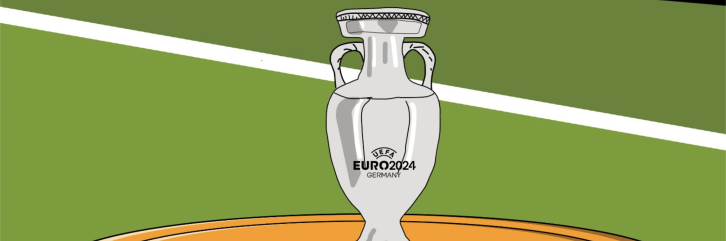
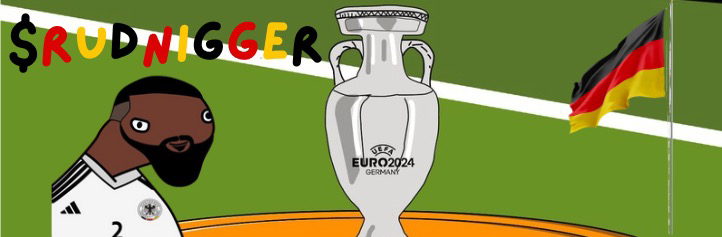
Update stats display layout and header styling

diff --git a/public/index.html b/public/index.html
@@ -1,46 +1,20 @@
 <!DOCTYPE html>
 <html lang="en">
-  <head><head>
-  
+  <head>
     <link href="https://fonts.googleapis.com/css2?family=Fredoka+One&display=swap" rel="stylesheet">
-   
+
     <meta charset="utf-8" />
-    <link rel="icon" href="%PUBLIC_URL%/favicon.ico" />
+    <link rel="icon" href="%PUBLIC_URL%/4.webp" />
     <meta name="viewport" content="width=device-width, initial-scale=1" />
     <meta name="theme-color" content="#000000" />
-    <meta
-      name="description"
-      content="Web site created using create-react-app"
-    />
+    <meta name="description" content="Web site created using create-react-app" />
     <link rel="apple-touch-icon" href="%PUBLIC_URL%/logo192.png" />
-    <!--
-      manifest.json provides metadata used when your web app is installed on a
-      user's mobile device or desktop. See https://developers.google.com/web/fundamentals/web-app-manifest/
-    -->
     <link rel="manifest" href="%PUBLIC_URL%/manifest.json" />
-    <!--
-      Notice the use of %PUBLIC_URL% in the tags above.
-      It will be replaced with the URL of the `public` folder during the build.
-      Only files inside the `public` folder can be referenced from the HTML.
-
-      Unlike "/favicon.ico" or "favicon.ico", "%PUBLIC_URL%/favicon.ico" will
-      work correctly both with client-side routing and a non-root public URL.
-      Learn how to configure a non-root public URL by running `npm run build`.
-    -->
-    <title>React App</title>
+    
+    <title>RUDNIGGER</title>
   </head>
   <body>
     <noscript>You need to enable JavaScript to run this app.</noscript>
     <div id="root"></div>
-    <!--
-      This HTML file is a template.
-      If you open it directly in the browser, you will see an empty page.
-
-      You can add webfonts, meta tags, or analytics to this file.
-      The build step will place the bundled scripts into the <body> tag.
-
-      To begin the development, run `npm start` or `yarn start`.
-      To create a production bundle, use `npm run build` or `yarn build`.
-    -->
   </body>
 </html>

diff --git a/src/components/CommunityLinks.js b/src/components/CommunityLinks.js
@@ -10,7 +10,7 @@ function CommunityLinks() {
 
     return (
         <div className="community bg-black text-white p-4 sm:p-8 md:p-12 text-center flex flex-col items-center justify-center space-y-4 sm:space-y-6">
-            <h2 className="text-2xl sm:text-3xl md:text-4xl font-bold mb-4 sm:mb-6 md:mb-8">Join Our Community</h2>
+            <h2 className="text-2xl sm:text-3xl md:text-4xl font-bold mb-4 sm:mb-6 md:mb-8">$RUDNIGGER CA:</h2>
 
             <div className="address-box bg-gray-800 p-4 sm:p-6 md:p-6 rounded mb-4 sm:mb-6 md:mb-8 flex items-center space-x-2 sm:space-x-4">
                 <span className="text-lg sm:text-xl md:text-xl mr-2 sm:mr-4">{walletAddress}</span>
@@ -21,19 +21,17 @@ function CommunityLinks() {
                 </button>
             </div>
 
-            <h2 className="text-xl sm:text-2xl md:text-2xl font-bold mb-4 sm:mb-6 md:mb-8">Liquidity Burned</h2>
-            <p className="text-sm sm:text-lg md:text-lg mb-4 sm:mb-6 md:mb-6">Details about the liquidity burned can be found on our Dexscreener profile.</p>
-
+           
             <div className="social-links flex justify-center space-x-2 sm:space-x-4 md:space-x-6">
                 <a 
-                    href="https://t.me/yourTelegramChannel" 
+                    href="https://t.me/+nc5hZuYsrC05OTc0" 
                     className="bg-gray-700 hover:bg-gray-600 text-white font-bold py-2 sm:py-3 md:py-3 px-4 sm:px-6 md:px-6 rounded text-sm sm:text-lg md:text-lg">
                     Telegram
                 </a>
                 <a 
-                    href="https://twitter.com/yourTwitterHandle" 
+                    href="https://x.com/tonirudnigger?s=21" 
                     className="bg-red-500 hover:bg-red-700 text-white font-bold py-2 sm:py-3 md:py-3 px-4 sm:px-6 md:px-6 rounded text-sm sm:text-lg md:text-lg">
-                    Twitter
+                    x
                 </a>
                 <a 
                     href="https://dexscreener.com/yourProfile" 

diff --git a/src/components/StatsDisplayed.js b/src/components/StatsDisplayed.js
@@ -1,0 +1,35 @@
+import React from 'react';
+
+function StatsDisplay() {
+    const mainStats = [
+        { label: 'Minutes Played', value: 0 },
+        { label: 'Successful Tackles', value: 0 },
+        { label: 'Clean Sheets', value: 0 },
+    ];
+
+    const tokensBurned = { label: 'Tokens Burned', value: 0 };
+
+    return (
+        <div className="bg-yellow-400 text-black p-8 rounded-lg shadow-lg">
+            <h2 className="text-2xl font-bold mb-4 text-center">$RUDN Stats</h2>
+            
+            <div className="flex flex-col items-center mb-8">
+                <div className="flex flex-col items-center bg-gray-800 p-6 rounded">
+                    <span className="text-lg font-semibold text-white">{tokensBurned.label}</span>
+                    <span className="text-3xl font-bold mt-2 text-white">{tokensBurned.value}</span>
+                </div>
+            </div>
+
+            <div className="flex flex-col space-y-4">
+                {mainStats.map((stat, index) => (
+                    <div key={index} className="flex flex-col items-center bg-gray-800 p-4 rounded">
+                        <span className="text-lg font-semibold text-white">{stat.label}</span>
+                        <span className="text-3xl font-bold mt-2 text-white">{stat.value}</span>
+                    </div>
+                ))}
+            </div>
+        </div>
+    );
+}
+
+export default StatsDisplay;

diff --git a/src/App.js b/src/App.js
@@ -1,31 +1,24 @@
 import React from 'react';
-import Header from './components/Header'; // Import the Header component
-import Hero from './components/Hero'; // Import the Hero Section
-import MemeGallery2 from './components/MemeGallery2'; // Import the About Meme Coin Section
-import MemeGallery from './components/MemeGallery'; // Import the Meme Gallery
-import CommunityLinks from './components/CommunityLinks'; // Import the Community Links
-import Footer from './components/Footer'; // Import the Header component
-import SlidingBanner from './components/SlidingBanner'; // Import the Header component
-
+import Header from './components/Header';
+import Hero from './components/Hero';
+import MemeGallery2 from './components/MemeGallery2';
+import MemeGallery from './components/MemeGallery';
+import CommunityLinks from './components/CommunityLinks';
+import Footer from './components/Footer';
+import SlidingBanner from './components/SlidingBanner';
+import StatsDisplayed from './components/StatsDisplayed';
+import './index.css';
 
 function App() {
   return (
     <div>
-      <Header />  
-
-      <Hero /> 
-      <SlidingBanner /> 
-
-      <CommunityLinks /> 
-
-
-      <MemeGallery /> 
-      <MemeGallery2 /> 
-
+      <Header />
+      <Hero />
+      <SlidingBanner />
+      <CommunityLinks />
+      <MemeGallery />
+      <StatsDisplayed />
       <Footer />
-
-
-
     </div>
   );
 }

diff --git a/src/index.css b/src/index.css
@@ -1,17 +1,20 @@
-
 @tailwind base;
 @tailwind components;
 @tailwind utilities;
+
 body {
   margin: 0;
-  font-family: -apple-system, BlinkMacSystemFont,'Fredoka One', sans-serif;
-
+  font-family: -apple-system, BlinkMacSystemFont, 'Fredoka One', sans-serif;
   -webkit-font-smoothing: antialiased;
   -moz-osx-font-smoothing: grayscale;
-}/* src/index.css */
-
+}
 
 code {
-  font-family: source-code-pro, Menlo, Monaco, Consolas, 'Courier New',
-    monospace;
+  font-family: source-code-pro, Menlo, Monaco, Consolas, 'Courier New', monospace;
+}
+
+.gradient-text {
+  background: linear-gradient(90deg, black, red, yellow);
+  -webkit-background-clip: text;
+  color: transparent;
 }

diff --git a/src/components/MemeGallery.js b/src/components/MemeGallery.js
@@ -5,12 +5,14 @@ function MemeGallery() {
         '/1.webp',
         '/2.webp',
         '/3.webp',
-        '/4.webp'
+        '/4.webp',
+        '/5.webp'
+
     ];
 
     return (
         <div className="gallery bg-red-600 p-8">
-            <h2 className="text-3xl font-bold text-white text-center mb-6">$RUDNIGGER Artwork</h2>
+            <h2 className="text-3xl font-bold text-yellow-400 text-center mb-6">$RUDNIGGER Artwork</h2>
             <div className="grid grid-cols-1 sm:grid-cols-2 gap-4">
                 {memes.map((meme, index) => (
                     <div key={index} className="meme overflow-hidden rounded-lg shadow-lg">

diff --git a/src/components/Header.js b/src/components/Header.js
@@ -2,8 +2,10 @@ import React from 'react';
 
 function Header() {
     return (
-        <header className="bg-black text-white p-2 sm:p-4 text-2xl sm:text-3xl font-bold text-center">
-           $RUDNIGGER
+        <header className="bg-black p-2 sm:p-4 text-center">
+            <h1 className="text-2xl sm:text-3xl font-bold gradient-text">
+                $RUDNIGGER
+            </h1>
         </header>
     );
 }
